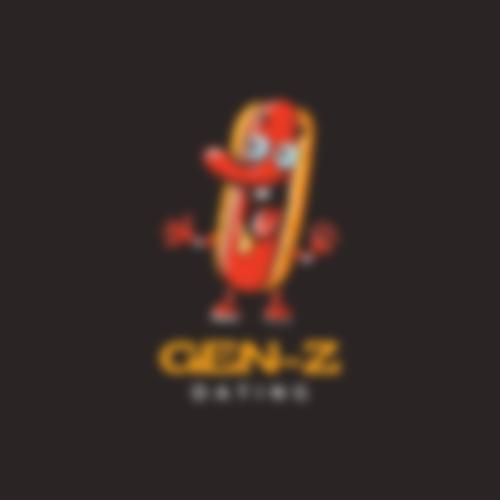
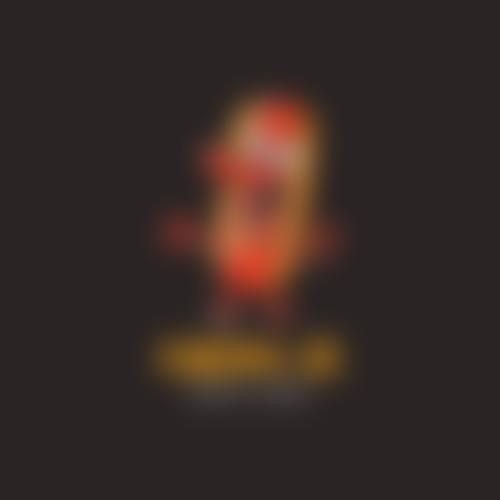
k

Changed region(s): [[0.3, 0.15, 0.69, 0.81]]

diff --git a/src/pages/BackgroundRemoval.jsx b/src/pages/BackgroundRemoval.jsx
@@ -1,35 +1,87 @@
 import React, { useState } from "react";
 import axios from "axios";
+import "../styles/BackgroundFeature.css";
 
 const BackgroundFeature = () => {
   const [selectedFile, setSelectedFile] = useState(null);
+  const [originalImage, setOriginalImage] = useState(null);
   const [processedImage, setProcessedImage] = useState(null);
 
   const handleFileUpload = (e) => {
-    setSelectedFile(e.target.files[0]);
+    const file = e.target.files[0];
+    if (file) {
+      setSelectedFile(file);
+      const reader = new FileReader();
+      reader.onload = (event) => {
+        setOriginalImage(event.target.result); // Preview the uploaded image
+      };
+      reader.readAsDataURL(file);
+    }
   };
 
   const handleBackgroundRemoval = async () => {
+    if (!selectedFile) {
+      alert("Please upload an image first!");
+      return;
+    }
+  
     const formData = new FormData();
     formData.append("image", selectedFile);
-
+  
+    console.log("Attempting to send:", selectedFile); // Debugging log
+  
     try {
-      const response = await axios.post("http://localhost:5000/api/background", formData, {
+      const response = await axios.post("http://localhost:5000/background", formData, {
         responseType: "blob",
       });
+      console.log("Backend response:", response); // Debugging log
       const imageUrl = URL.createObjectURL(response.data);
       setProcessedImage(imageUrl);
     } catch (error) {
-      console.error("Error removing background:", error);
+      console.error("Error removing background:", error.response || error.message);
+      alert("Background removal failed. Check the console for details.");
+    }
+  };
+  
+  const handleDownloadProcessedImage = () => {
+    if (processedImage) {
+      const link = document.createElement("a");
+      link.href = processedImage;
+      link.download = "background_removed_image.jpg";
+      link.click();
+    } else {
+      alert("No processed image available to download!");
     }
   };
 
   return (
-    <div className="feature-container">
+    <div className="background-feature-container">
       <h2>Background Removal</h2>
-      <input type="file" onChange={handleFileUpload} />
-      <button onClick={handleBackgroundRemoval} className="futuristic-button">Remove Background</button>
-      {processedImage && <img src={processedImage} alt="Background removed output" />}
+      <div className="image-preview-container">
+        {originalImage && (
+          <div className="image-preview">
+            <h3>Original Image</h3>
+            <img src={originalImage} alt="Original" className="image" />
+          </div>
+        )}
+        {processedImage && (
+          <div className="image-preview">
+            <h3>Processed Image</h3>
+            <img src={processedImage} alt="Processed" className="image" />
+          </div>
+        )}
+      </div>
+      <div className="controls">
+        <input type="file" onChange={handleFileUpload} accept="image/*" />
+        <button onClick={handleBackgroundRemoval} className="process-button">Process</button>
+      </div>
+      {processedImage && (
+        <div className="dbutton">
+          <button onClick={handleDownloadProcessedImage} className="download-button">
+            Download Processed Image
+          </button>
+        </div>
+      )}
     </div>
   );
 };

diff --git a/src/styles/BackgroundFeature.css b/src/styles/BackgroundFeature.css
@@ -1,0 +1,79 @@
+.background-feature-container {
+    display: flex;
+    flex-direction: column;
+    align-items: center;
+    gap: 1.5rem;
+    padding: 2rem;
+    background-color: #f9f9f9;
+    border-radius: 10px;
+    box-shadow: 0 4px 8px rgba(0, 0, 0, 0.1);
+  }
+  
+  h2 {
+    font-size: 2rem;
+    color: #333;
+  }
+  
+  .image-preview-container {
+    display: flex;
+    justify-content: center;
+    gap: 2rem;
+  }
+  
+  .image-preview {
+    text-align: center;
+  }
+  
+  .image {
+    max-width: 100%;
+    border: 3px solid #ddd;
+    border-radius: 10px;
+  }
+  
+  .controls {
+    display: flex;
+    flex-direction: column;
+    align-items: center;
+    gap: 1rem;
+  }
+  
+  input[type="file"] {
+    padding: 0.7rem;
+    font-size: 1rem;
+    border: 2px solid #ccc;
+    border-radius: 5px;
+    cursor: pointer;
+  }
+  
+  .process-button {
+    padding: 0.8rem 1.5rem;
+    font-size: 1rem;
+    font-weight: bold;
+    border: none;
+    border-radius: 5px;
+    background-color: #0078d7;
+    color: white;
+    cursor: pointer;
+    transition: background-color 0.3s ease;
+  }
+  
+  .process-button:hover {
+    background-color: #005bb5;
+  }
+  
+  .download-button {
+    padding: 0.8rem 1.5rem;
+    font-size: 1rem;
+    font-weight: bold;
+    border: none;
+    border-radius: 5px;
+    background-color: #28a745;
+    color: white;
+    cursor: pointer;
+    transition: background-color 0.3s ease;
+  }
+  
+  .download-button:hover {
+    background-color: #1e7d32;
+  }
+  

diff --git a/src/pages/BlurAdjustment.jsx b/src/pages/BlurAdjustment.jsx
@@ -31,12 +31,12 @@ const BlurAdjustment = () => {
     formData.append("image", selectedFile);
 
     try {
-      const response = await axios.post("http://localhost:5000/brightness", formData, {
+      const response = await axios.post("http://localhost:5000/blur", formData, {
         responseType: "blob", // Expecting binary image data
       });
       console.log("Axios Response:", response);
       const imageUrl = URL.createObjectURL(response.data);
-      setProcessedImage(imageUrl); // Display processed image
+      setBlurredImage(imageUrl); // Display processed image
     } catch (error) {
       console.error("Error Details:", error.response || error.message);
       alert("Something went wrong. Please try again.");

diff --git a/backend/models/brightness.py b/backend/models/brightness.py
@@ -15,33 +15,50 @@ def adjust_brightness_contrast():
         # Retrieve uploaded file
         file = request.files.get('image')
         if not file:
+            print("No file uploaded")
             return {"error": "No file uploaded"}, 400
+        print(f"File received: {file.filename}")
 
-        brightness_level = float(request.form.get("brightness", 1.2))  # Default: 1.2
-        contrast_level = float(request.form.get("contrast", 1.1))  # Default: 1.1
+        # Validate brightness and contrast
+        try:
+            brightness_level = float(request.form.get("brightness", 1.2))
+            contrast_level = float(request.form.get("contrast", 1.1))
+        except ValueError as e:
+            print(f"Invalid brightness or contrast value: {e}")
+            return {"error": "Brightness and contrast must be numbers"}, 400
+        print(f"Brightness level: {brightness_level}, Contrast level: {contrast_level}")
 
         # Save uploaded file
         input_path = os.path.join(UPLOAD_FOLDER, file.filename)
         output_path = os.path.join(OUTPUT_FOLDER, f"brightness_{file.filename}")
         file.save(input_path)
+        print(f"File saved at: {input_path}")
 
         # Open image and apply enhancements
-        img = Image.open(input_path)
+        try:
+            img = Image.open(input_path)
+            img.verify()  # Check image validity
+            img = Image.open(input_path)  # Reopen after verification
+            if img.mode != "RGB":
+                img = img.convert("RGB")  # Convert to RGB for compatibility
+            print(f"Image format: {img.format}, Mode: {img.mode}")
 
-        # Adjust brightness
-        enhancer = ImageEnhance.Brightness(img)
-        brightened_img = enhancer.enhance(brightness_level)
+            # Adjust brightness and contrast
+            enhancer = ImageEnhance.Brightness(img)
+            brightened_img = enhancer.enhance(brightness_level)
+            enhancer = ImageEnhance.Contrast(brightened_img)
+            final_img = enhancer.enhance(contrast_level)
 
-        # Adjust contrast
-        enhancer = ImageEnhance.Contrast(brightened_img)
-        final_img = enhancer.enhance(contrast_level)
-
-        # Save the processed image
-        final_img.save(output_path)
+            # Save the processed image
+            final_img.save(output_path, "JPEG")
+            print(f"Processed image saved at: {output_path}")
+        except Exception as e:
+            print(f"Error during brightness/contrast adjustment: {e}")
+            return {"error": "Failed to adjust brightness/contrast"}, 500
 
         return send_file(output_path, as_attachment=True)
     except Exception as e:
-        print(f"Error during brightness/contrast adjustment: {e}")
+        print(f"Unexpected error: {e}")
         return {"error": str(e)}, 500
 
 if __name__ == '__main__':

diff --git a/backend/app.py b/backend/app.py
@@ -16,6 +16,37 @@ UPLOAD_FOLDER = 'uploads'
 OUTPUT_FOLDER = 'outputs'
 os.makedirs(UPLOAD_FOLDER, exist_ok=True)
 os.makedirs(OUTPUT_FOLDER, exist_ok=True)
+
+@app.route('/blur', methods=['POST'])
+def blur_image():
+    file = request.files.get('image')
+    if not file:
+        print("No file uploaded")
+        return {"error": "No file uploaded"}, 400
+
+    try:
+        input_path = os.path.join(UPLOAD_FOLDER, file.filename)
+        output_path = os.path.join(OUTPUT_FOLDER, f"blurred_{file.filename}")
+        file.save(input_path)
+
+        # Log the file path
+        print(f"File saved to: {input_path}")
+
+        # Open the image and apply blur
+        img = Image.open(input_path)
+        blurred_img = img.filter(ImageFilter.GaussianBlur(14))
+        blurred_img.save(output_path)
+
+        # Log the successful operation
+        print(f"Blurred image saved to: {output_path}")
+
+        return send_file(output_path, as_attachment=True)
+    except Exception as e:
+        print(f"Error: {e}")
+        return {"error": "Failed to process image"}, 500
+
+
+
 @app.route('/brightness', methods=['POST'])
 def adjust_brightness_contrast():
     try:
@@ -100,17 +131,29 @@ print(app.url_map)
 
 if __name__ == "__main__":          
     app.run(debug=True, port=5000)
-@app.route('/api/background', methods=['POST'])
+
+@app.route('/background', methods=['POST'])
 def background():
-    file = request.files['image']
-    input_path = os.path.join(UPLOAD_FOLDER, file.filename)
-    output_path = os.path.join(OUTPUT_FOLDER, f'background_{file.filename}')
-    file.save(input_path)
-    
-    success = remove_background(input_path, output_path)
-    if success:
-        return send_file(output_path, as_attachment=True)
-    return {"error": "Background removal failed."}
+    try:
+        file = request.files.get('image')
+        if not file:
+            return {"error": "No file uploaded"}, 400
+
+        # Generate unique filenames
+        input_path = os.path.join(UPLOAD_FOLDER, file.filename)
+        output_path = os.path.join(OUTPUT_FOLDER, f"background_{file.filename}")
+        file.save(input_path)
+
+        # Call the background removal function
+        success = remove_background(input_path, output_path)
+        if success:
+            return send_file(output_path, as_attachment=True)
+        else:
+            return {"error": "Background removal failed."}, 500
+    except Exception as e:
+        print(f"Unexpected error: {e}")
+        return {"error": str(e)}, 500
+
 
 @app.route('/api/filters', methods=['POST'])
 def filters():

diff --git a/backend/models/background_removal.py b/backend/models/background_removal.py
@@ -1,11 +1,16 @@
 import cv2
 import numpy as np
 
-def remove_background(input_path, output_path):
+def remove_background(input_path, output_path, threshold_value=200, blur_kernel=(5, 5)):
     try:
         img = cv2.imread(input_path)
+        if img is None:
+            print(f"Error: Cannot read image at {input_path}")
+            return False
+
         gray = cv2.cvtColor(img, cv2.COLOR_BGR2GRAY)
-        _, mask = cv2.threshold(gray, 200, 255, cv2.THRESH_BINARY_INV)
+        gray = cv2.GaussianBlur(gray, blur_kernel, 0)
+        _, mask = cv2.threshold(gray, threshold_value, 255, cv2.THRESH_BINARY_INV)
         result = cv2.bitwise_and(img, img, mask=mask)
         cv2.imwrite(output_path, result)
         return True
